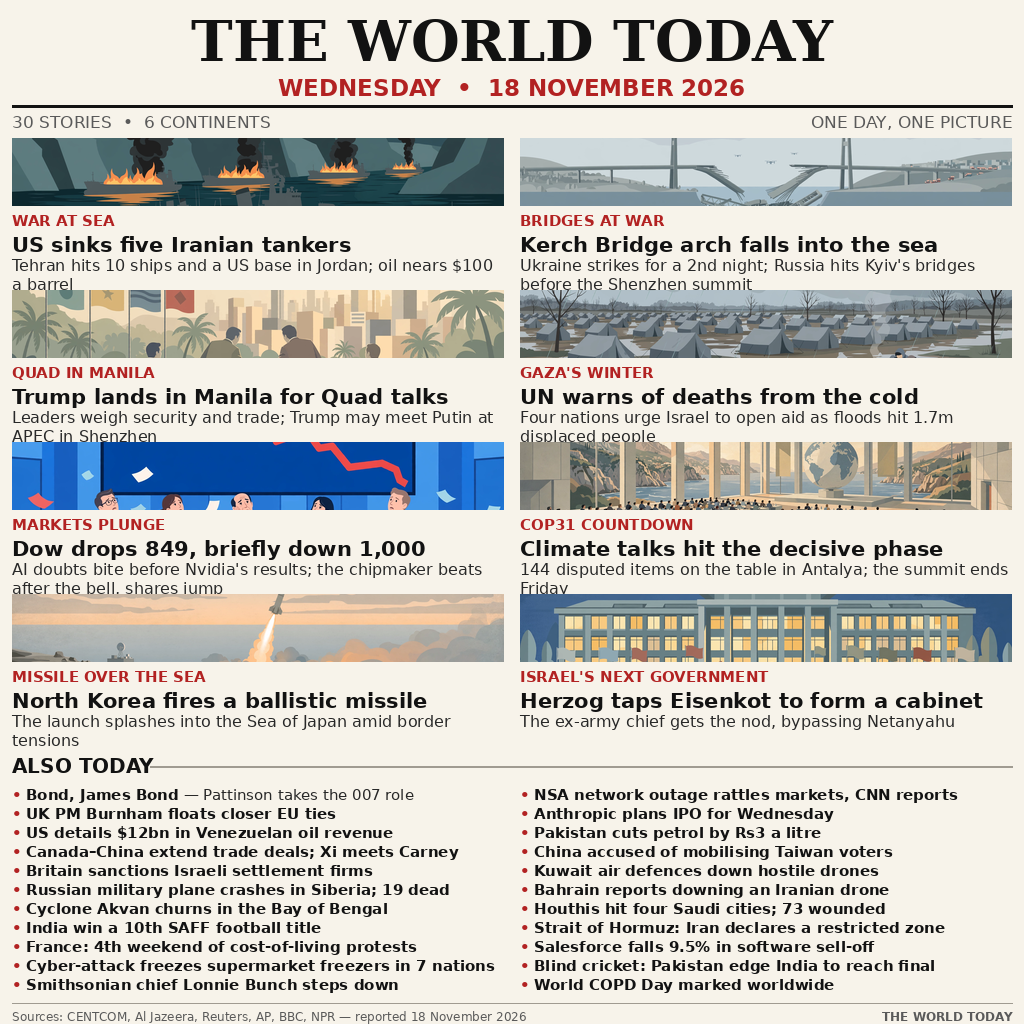
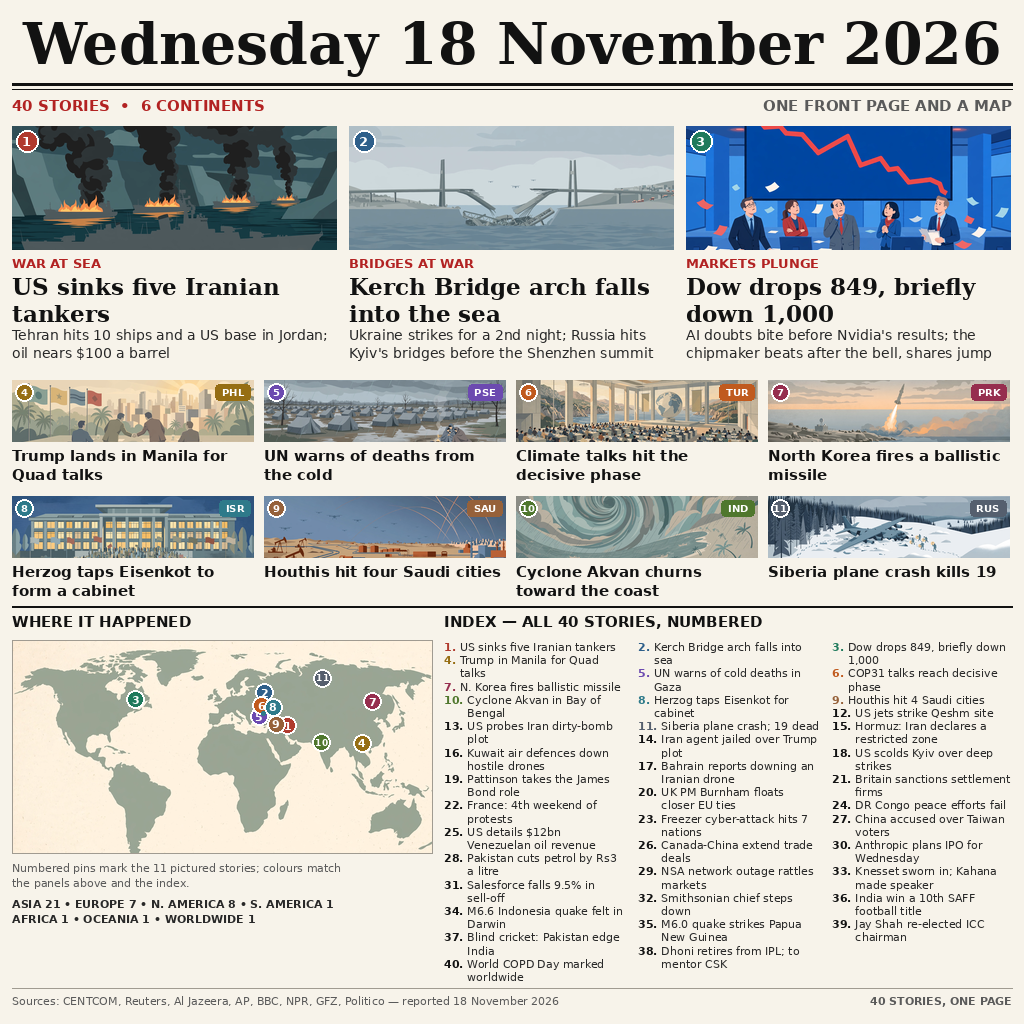
Challenger edition: 40 stories, hero panels, world map + full index
Restructured to the verified leader template: date-only serif
masthead, 3 hero panels + 8 small flag-chipped panels (11 pictured),
bottom block with a pinned world map and a numbered index of all
40 stories (10 new stories added, each cross-checked in 2+ sources).

diff --git a/main.py b/main.py
@@ -1,10 +1,16 @@
 #!/usr/bin/env python3
 """Entry program for make.fun news-image-20261118.
 
-Validates the bundled front-page picture against the competition
-limits (a whole PNG or JPEG, at most 1 MiB, at most 1024x1024) and
-copies it byte for byte to entry.png in the output directory.
-Standard library only; the copy is deterministic, so two runs write
+The bundled picture is a newspaper front page for Wednesday
+18 November 2026: the date itself as a serif masthead, 3 hero panels
+and 8 small flag-chipped panels (11 pictured stories), and a bottom
+block pairing a world map — numbered pins for the pictured stories —
+with a numbered index of all 40 stories across 6 continents.
+
+This program validates the picture against the competition limits
+(a whole PNG or JPEG, at most 1 MiB, at most 1024x1024) and copies
+it byte for byte to entry.png in the output directory. Standard
+library only; the copy is deterministic, so two runs write
 identical bytes.
 """
 
@@ -15,6 +21,11 @@ import sys
 
 MAX_BYTES = 1048576
 MAX_DIM = 1024
+
+EDITION = "Wednesday 18 November 2026"
+STORIES = 40
+CONTINENTS = 6
+PICTURED = 11
 
 
 def fail(message):
@@ -89,6 +100,8 @@ def main():
         fail("written file does not match the bundled image")
     print("wrote %s (%s, %dx%d, %d bytes, sha256 %s)"
           % (target, kind, width, height, len(data), digest))
+    print("edition: %s — %d stories, %d pictured, %d continents"
+          % (EDITION, STORIES, PICTURED, CONTINENTS))
 
 
 if __name__ == "__main__":

diff --git a/README.md b/README.md
@@ -2,7 +2,7 @@
 [![rank](https://make.fun/badge/news-image-20261118/emafajriana/news-image-20261118-entry/rank.svg)](https://make.fun/bounty/news-image-20261118/leaderboard?utm_source=github&utm_medium=readme&utm_campaign=news-image-20261118)
 [![reward](https://make.fun/badge/news-image-20261118/emafajriana/news-image-20261118-entry/reward.svg)](https://make.fun/bounty/news-image-20261118?utm_source=github&utm_medium=readme&utm_campaign=news-image-20261118)
 
-# The World Today — Wednesday 18 November 2026
+# Wednesday 18 November 2026: 40 stories, 6 continents, one front page and a map
 
 Entry for the make.fun bounty **news-image-20261118** ("Sum up 18 November's
 world news in one image").
@@ -13,27 +13,38 @@ against the competition limits (whole PNG or JPEG, at most 1 MiB, at most
 directory (`MAKEFUN_OUTPUT_DIR` when set, otherwise `/output`). The written
 file is read back and its sha256 compared, so a bad write fails loudly.
 
-The picture: a newspaper front page, "THE WORLD TODAY — WEDNESDAY 18
-NOVEMBER 2026", with 30 stories across 6 continents:
+The picture: a newspaper front page for **Wednesday 18 November 2026** —
+the date itself is the masthead — carrying **40 stories across 6
+continents**:
 
-- **8 illustrated panels:** US sinks five Iranian tankers (Iran hits 10 ships
-  and a US base in Jordan; oil nears $100); the Kerch Bridge arch falls into
-  the sea; Trump lands in Manila for Quad talks; the UN warns of deaths from
-  the cold in Gaza; the Dow drops 849, briefly down 1,000; COP31 climate talks
-  hit their decisive phase; North Korea fires a ballistic missile; Herzog taps
-  Eisenkot to form Israel's next government.
-- **ALSO TODAY strip (22 more):** Pattinson named the new James Bond; UK PM
-  Burnham floats closer EU ties; the US details $12bn in Venezuelan oil
-  revenue; Canada–China extend trade deals; Britain sanctions Israeli
-  settlement firms; a Russian military plane crashes in Siberia; Cyclone Akvan;
-  India's 10th SAFF title; France's 4th weekend of cost-of-living protests;
-  a cyber-attack freezes supermarket freezers in 7 nations; the Smithsonian
-  chief steps down; an NSA network outage; Anthropic's planned IPO; Pakistan's
-  petrol cut; China accused of mobilising Taiwan voters; Kuwaiti air defences
-  down drones; Bahrain reports downing an Iranian drone; Houthi strikes on
-  four Saudi cities; Iran's Hormuz restricted zone; Salesforce's 9.5% fall;
-  Pakistan edge India in blind cricket; World COPD Day.
+- **3 hero panels:** US sinks five Iranian tankers (Iran hits 10 ships and
+  a US base in Jordan; oil nears $100); the Kerch Bridge arch falls into
+  the sea; the Dow drops 849, briefly down 1,000, before Nvidia beats
+  after the bell.
+- **8 small illustrated panels** with flag chips: Trump lands in Manila
+  for Quad talks; the UN warns of deaths from the cold in Gaza; COP31
+  climate talks hit their decisive phase; North Korea fires a ballistic
+  missile; Herzog taps Eisenkot to form Israel's next government; Houthis
+  hit four Saudi cities; Cyclone Akvan churns in the Bay of Bengal; a
+  Russian military plane crashes in Siberia, killing 19.
+- **Map and index:** a world map with numbered, colour-coded pins for
+  the 11 pictured stories, beside a numbered index of all 40. The other
+  29 include US jets striking a missile site on Qeshm Island, the
+  suspected Iran dirty-bomb plot in Washington, an Iranian agent jailed
+  for 27 years over a Trump murder plot, Iran's Hormuz restricted zone,
+  Kuwaiti and Bahraini air defences downing drones, the US scolding Kyiv
+  over deep strikes, Pattinson named the new James Bond, UK PM Burnham
+  floating closer EU ties, Britain sanctioning settlement firms,
+  France's 4th weekend of protests, a freezer cyber-attack in 7 nations,
+  DR Congo peace efforts failing, $12bn in Venezuelan oil revenue,
+  Canada–China trade deals, China accused over Taiwan voters, Pakistan's
+  petrol cut, an NSA network outage, Anthropic's planned IPO,
+  Salesforce's 9.5% fall, the Smithsonian chief stepping down, the new
+  Knesset sworn in, quakes in Indonesia and Papua New Guinea, India's
+  10th SAFF title, Pakistan edging India in blind cricket, Dhoni's IPL
+  retirement, Jay Shah's ICC re-election and World COPD Day.
 
-All panel illustrations are original, generated for this entry; all caption
-text is rendered programmatically. Sources: CENTCOM, Al Jazeera, Reuters, AP,
-BBC, NPR — as reported on 18 November 2026.
+All illustrations (panels and map) are original, generated for this
+entry; all text is rendered programmatically. Sources: CENTCOM,
+Reuters, Al Jazeera, AP, BBC, NPR, GFZ, Politico — as reported on
+18 November 2026.
